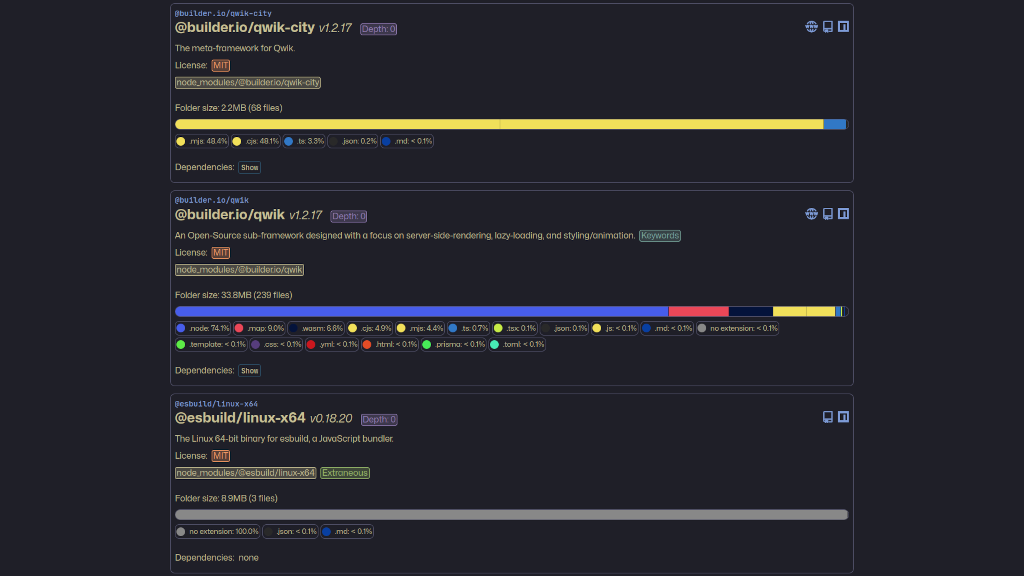
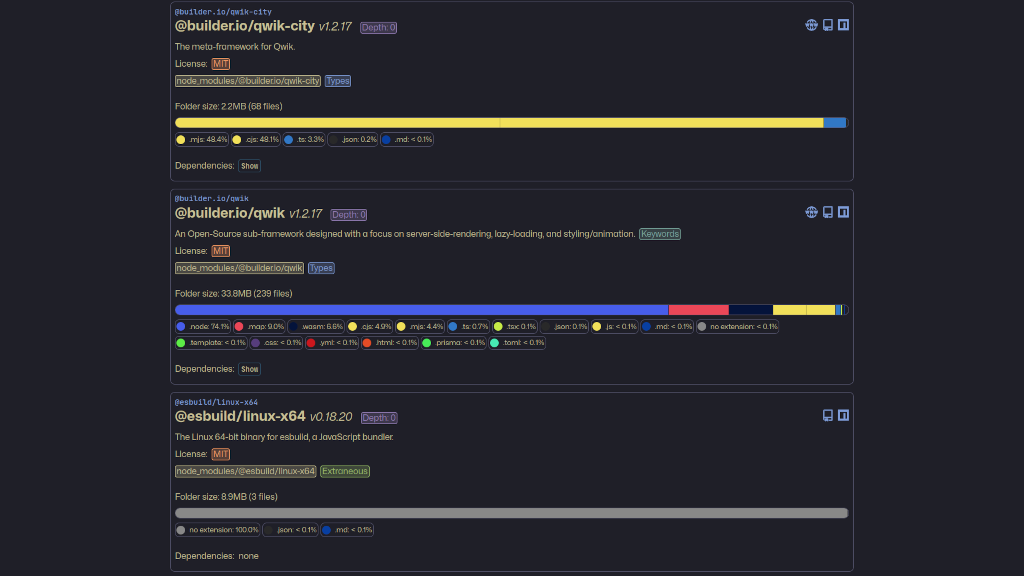
feat: Add TypeScript declaration files parsing logic.

Changed region(s): [[0.1562, 0.0, 0.8438, 1.0]]

diff --git a/src/components/package-card/PackageCardBody.tsx b/src/components/package-card/PackageCardBody.tsx
@@ -8,11 +8,12 @@ import {
   KeywordsTag,
   LicenseTag,
   PathTag,
+  TypesTag,
 } from "../tags";
 import "./PackageCardBody.css";
 
-interface Props
-  extends Omit<PackageInformation, "depth" | "version" | "dependencyPath"> {
+interface Props extends Omit<PackageInformation, "depth" | "dependencyPath"> {
+  packageName: string;
   shouldShowDependencies: boolean;
   handleDependenciesDisplay: () => void;
 }
@@ -21,10 +22,12 @@ export const PackageCardBody = ({
   isDeduped,
   isExtraneous,
   invalidityDetails,
+  version,
   installationPath,
   folderStatistics,
   packageMetadata,
   dependencies,
+  packageName,
   shouldShowDependencies,
   handleDependenciesDisplay,
 }: Props) => {
@@ -59,6 +62,13 @@ export const PackageCardBody = ({
             {isExtraneous ? <ExtraneousTag /> : null}
             {invalidityDetails ? (
               <InvalidTag invalidityDetails={invalidityDetails} />
+            ) : null}
+            {packageMetadata.types ? (
+              <TypesTag
+                packageName={packageName}
+                version={version}
+                types={packageMetadata.types}
+              />
             ) : null}
           </div>
           <p>

diff --git a/src/components/package-card/PackageCard.tsx b/src/components/package-card/PackageCard.tsx
@@ -54,10 +54,12 @@ export const PackageCard = ({
             isDeduped={isDeduped}
             isExtraneous={isExtraneous}
             invalidityDetails={invalidityDetails}
+            version={version}
             installationPath={installationPath}
             folderStatistics={folderStatistics}
             packageMetadata={packageMetadata}
             dependencies={dependencies}
+            packageName={packageName}
             shouldShowDependencies={shouldShowDependencies}
             handleDependenciesDisplay={handleDependenciesDisplay}
           />

diff --git a/src/components/tags/TypesTag.tsx b/src/components/tags/TypesTag.tsx
@@ -1,0 +1,22 @@
+import { BaseTag } from "./BaseTag";
+
+interface Props {
+  packageName: string;
+  version: string;
+  types: string;
+}
+
+export const TypesTag = ({ packageName, version, types }: Props) => (
+  <BaseTag
+    type="types"
+    title="TypeScript declaration files are provided by this package."
+  >
+    <a
+      className="tag__link"
+      href={`https://unpkg.com/${packageName}@${version}/${types}`}
+      target="_blank"
+    >
+      Types
+    </a>
+  </BaseTag>
+);

diff --git a/src/package-json-parser/getPackageMetadata.ts b/src/package-json-parser/getPackageMetadata.ts
@@ -40,6 +40,8 @@ export const getPackageMetadata = async ({
     license,
     licenses,
     repository,
+    types,
+    typings,
   } = JSON.parse(packageJson);
 
   const repositoryUrl = parseRepository(repository);
@@ -51,5 +53,6 @@ export const getPackageMetadata = async ({
     keywords: parseKeywords(keywords),
     licenses: parseLicense({ repositoryUrl, license: license || licenses }),
     repository: repositoryUrl,
+    types: nullifyNonString(types || typings),
   };
 };

diff --git a/src/components/tags/index.ts b/src/components/tags/index.ts
@@ -5,3 +5,4 @@ export { InvalidTag } from "./InvalidTag";
 export { KeywordsTag } from "./KeywordsTag";
 export { LicenseTag } from "./LicenseTag";
 export { PathTag } from "./PathTag";
+export { TypesTag } from "./TypesTag";

diff --git a/src/types.ts b/src/types.ts
@@ -73,4 +73,5 @@ export interface PackageMetadata {
   keywords: Nullable<string>;
   licenses: License[];
   repository: Nullable<string>;
+  types: Nullable<string>;
 }

diff --git a/src/components/tags/BaseTag.tsx b/src/components/tags/BaseTag.tsx
@@ -10,7 +10,8 @@ interface Props {
     | "keywords"
     | "deduped"
     | "extraneous"
-    | "invalid";
+    | "invalid"
+    | "types";
   title: ReactNode;
 }
 

diff --git a/src/components/tags/Tags.css b/src/components/tags/Tags.css
@@ -49,3 +49,8 @@
   color: #ff5d62;
   background-color: #ff5d6240;
 }
+
+.tag_types {
+  color: #7e9cd8;
+  background-color: #7e9cd840;
+}
